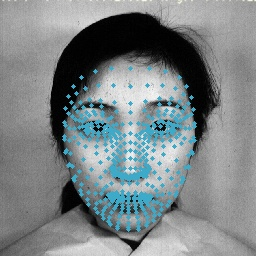
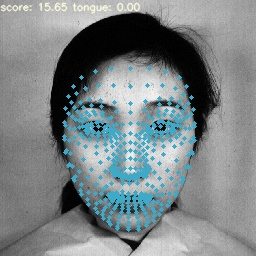
text

diff --git a/fld_onnx.py b/fld_onnx.py
@@ -16,12 +16,12 @@ def show_results(img: np.ndarray, landmarks: np.ndarray, score: float, tongue: f
         cv2.circle(img, (point_x, point_y), tl + 1, (200, 170, 60), -1)
 
     tf = max(tl - 1, 1)  # font thickness
-    label = "score: {} tongue: {}".format(score, tongue)
+    label = "score: {:.2f} tongue: {:.2f}".format(score, tongue)
 
     cv2.putText(
         img,
         label,
-        (0, 0),
+        (0, 10),
         0,
         tl / 3,
         [225, 255, 255],
